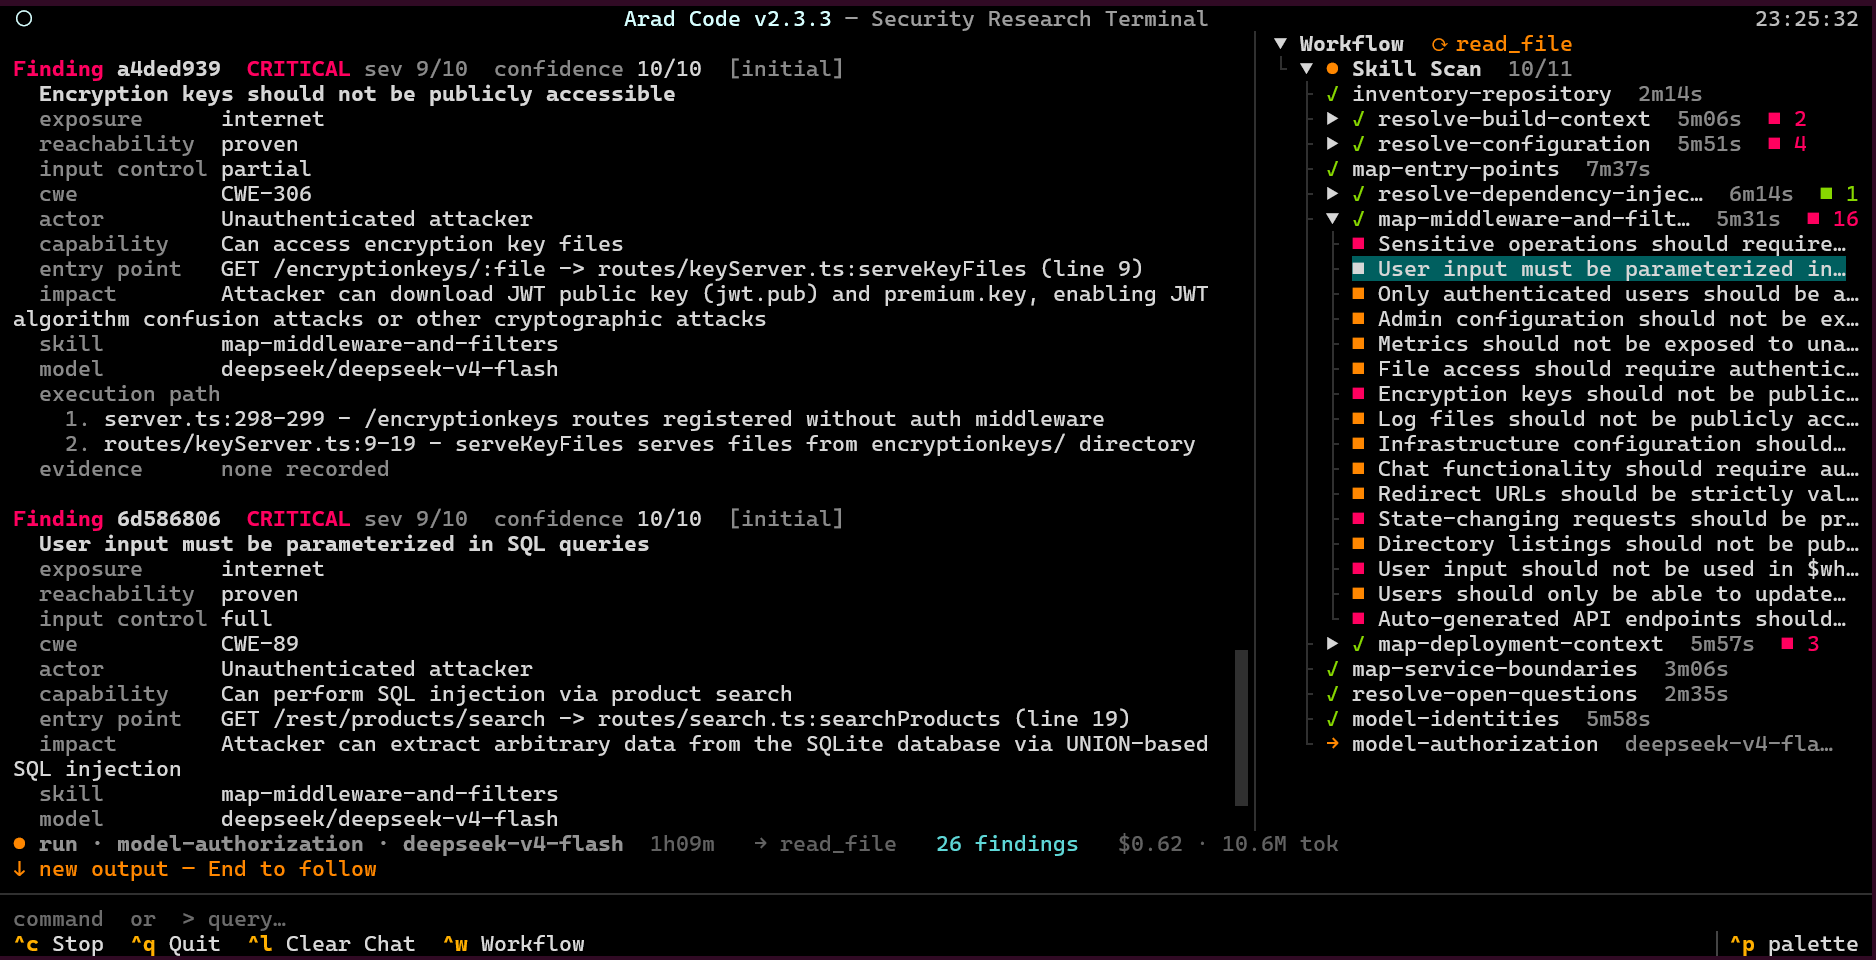
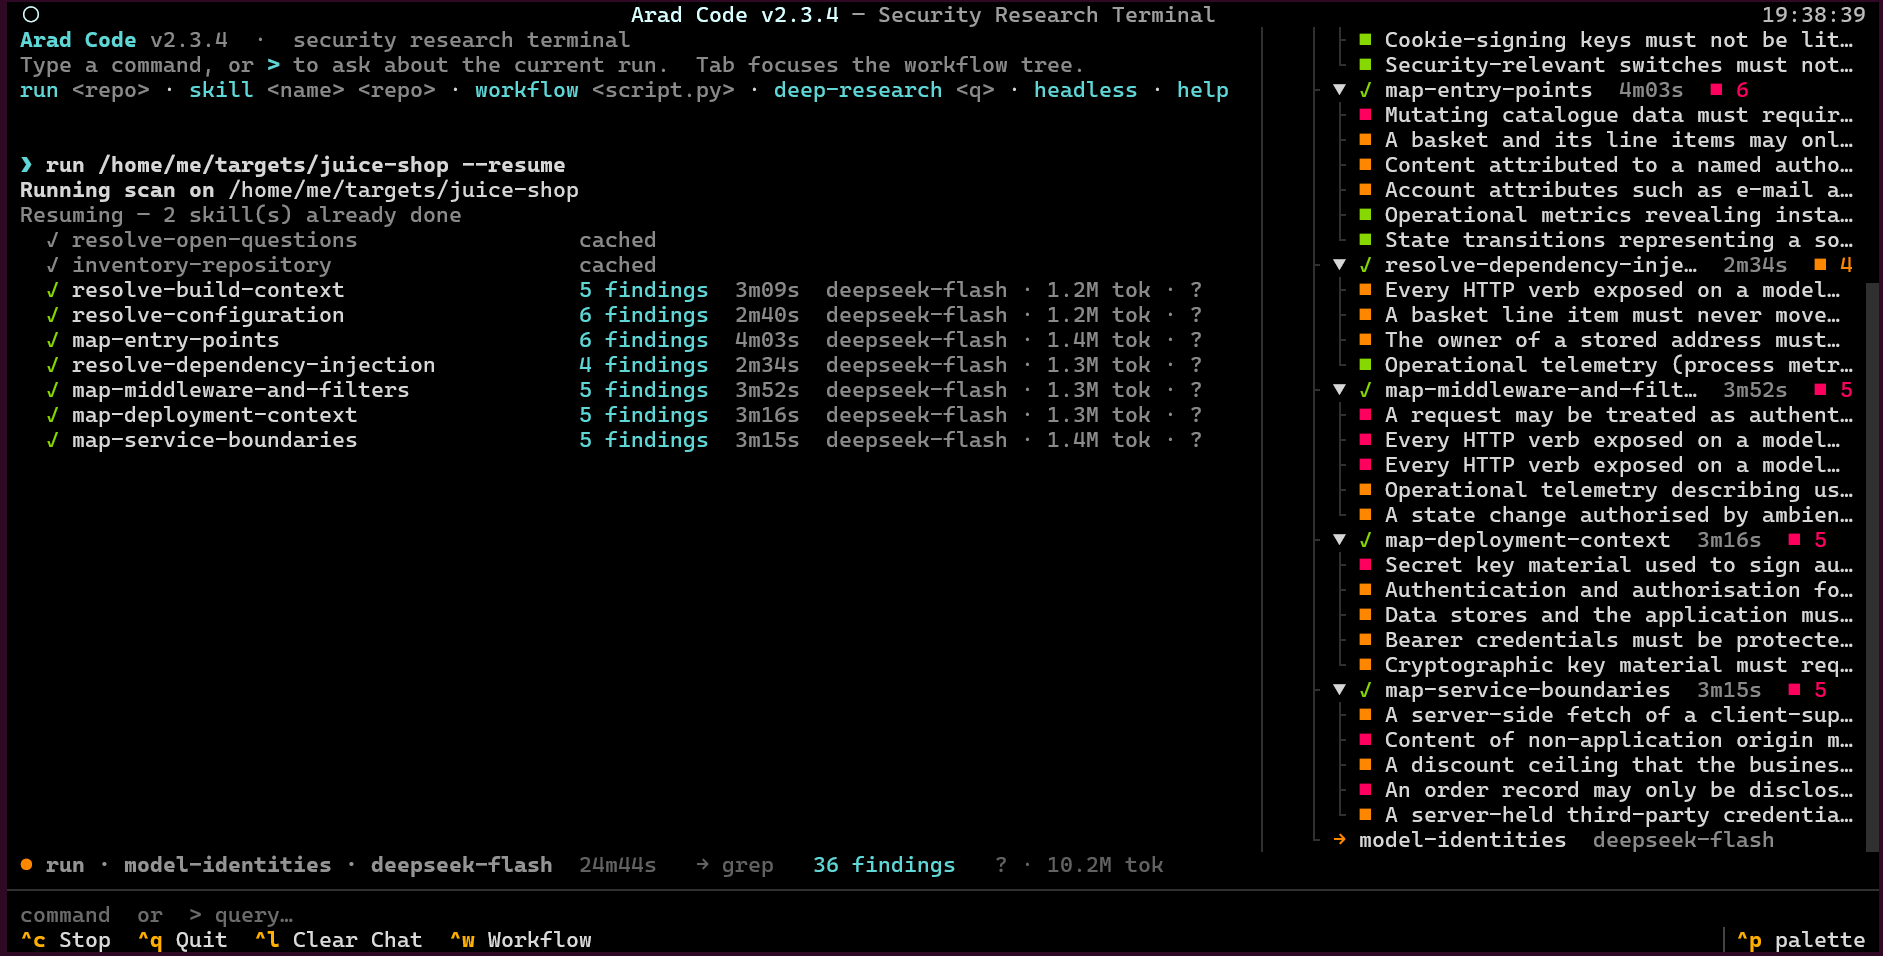
docs: screenshot of the 2.3.4 scan on OWASP Juice Shop

Changed region(s): [[0.0, 0.0, 1.0, 1.0], [0.9275, 0.9707, 0.9584, 1.0], [0.4019, 0.5157, 0.4328, 0.546]]

diff --git a/README.md b/README.md
@@ -12,7 +12,7 @@
 </div>
 
 <p align="center">
-  <img src="docs/screenshot.png" alt="Arad Code scanning OWASP Juice Shop, with the workflow tree on the right and two findings opened in detail" width="900">
+  <img src="docs/screenshot.png" alt="Arad Code scanning OWASP Juice Shop: each finished skill with its findings, time and tokens, and the findings tree on the right" width="900">
 </p>
 
 Arad Code drives an LLM through a set of audit "skills" (plain markdown playbooks) against a repository. The model gets real tools: a code graph, ripgrep, an AST parser, semgrep, a read-only shell. It maps the project first (entry points, middleware, identities, ownership), then traces data and hunts for concrete vulnerability patterns.
